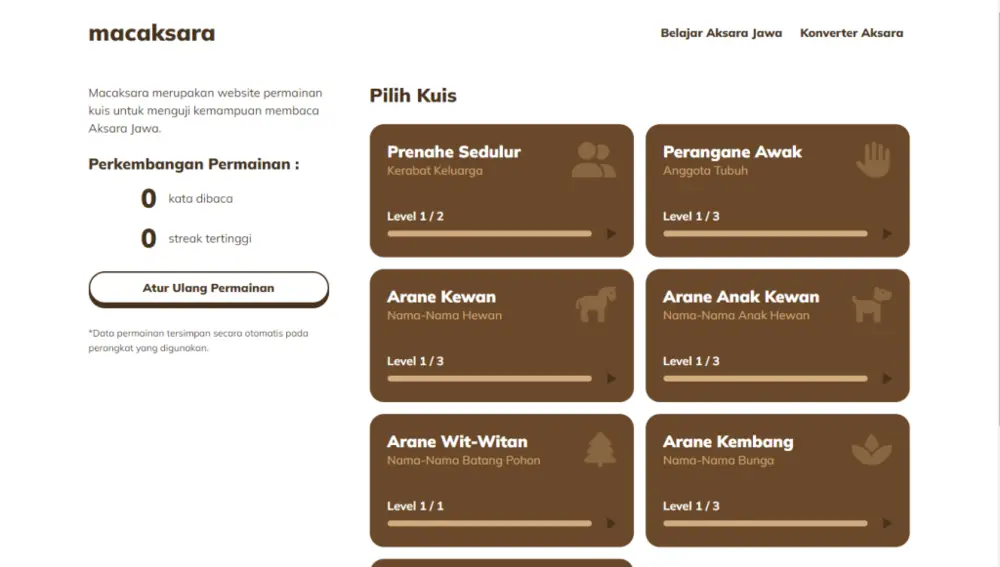
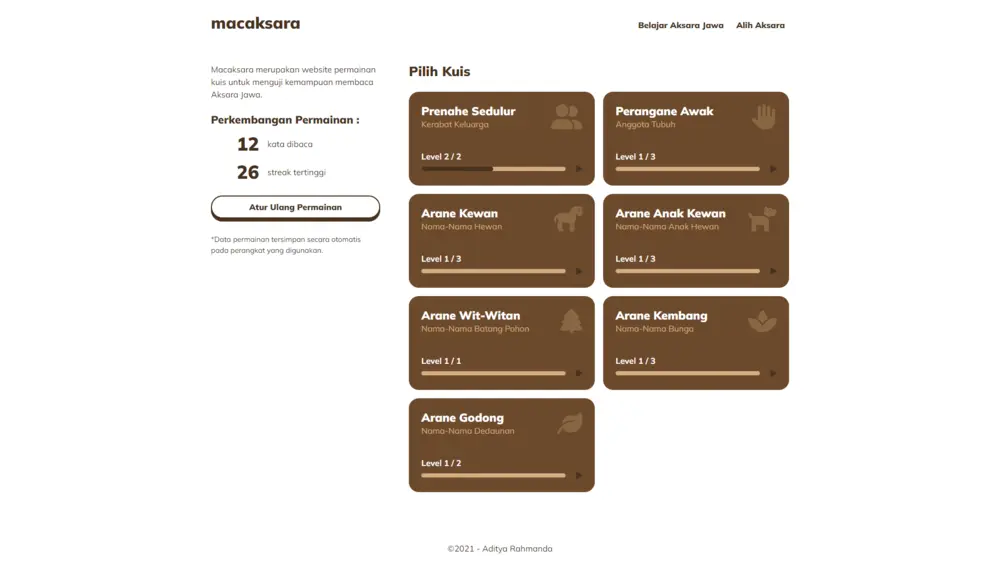
post abimana and alih aksara

diff --git a/_layouts/kerjaan.html b/_layouts/kerjaan.html
@@ -59,18 +59,14 @@ layout: base
 
                     {%- if page.thumbnail -%}
                     <p>
-                        <img class="full-width-image" src="{{ page.thumbnail | prepend: site.baseurl | prepend: site.url }}" alt="Keluku" />
+                        <img class="full-width-image" src="{{ page.thumbnail | prepend: site.baseurl | prepend: site.url }}" alt="Thumbnail" />
                     </p>
                     {%- endif -%}
 
                     {%- if page.excerpt -%}
-                        <div class="entry-content">
-                            {{ content | remove_first:page.excerpt }}
-                        </div>
+                        {{ content | remove_first:page.excerpt }}
                     {%- else -%}
-                        <div class="entry-content">
-                            {{ content }}
-                        </div>
+                        {{ content }}
                     {%- endif -%}
 
                 </article><!-- #post-## -->

diff --git a/_sass/theme/_entries.scss b/_sass/theme/_entries.scss
@@ -94,8 +94,6 @@
 #wrapper-single-work, #wrapper-featured-work, #wrapper-archive-work {
     .hentry {
         .entry-tags, .entry-dev-tools {
-            text-align: right;
-
             ul {
                 @include list-unstyled;
                 margin-bottom: 0;
@@ -116,6 +114,14 @@
     .hentry {
         .entry-tags, .entry-dev-tools {
             text-align: right;
+        }
+    }
+}
+
+#wrapper-single-work {
+    .hentry {
+        .entry-tags, .entry-dev-tools {
+            text-align: left;
         }
     }
 }

diff --git a/_posts/2023-08-05-javanese-textmeshpro.md b/_posts/2023-08-05-javanese-textmeshpro.md
@@ -1,5 +1,5 @@
 ---
-layout: post
+layout: kerjaan
 title: "Javanese TextMeshPro – Dukungan Aksara Jawa untuk TextMeshPro"
 date: 2023-08-05 01:09
 categories: kerjaan
@@ -17,33 +17,33 @@ Perkakas tambahan untuk memenuhi kebutuhan penulisan teks aksara Jawa di dalam U
 
 <!--excerpt-->
 
-# Fitur-Fitur
-### Javanese Text
+#### Fitur-Fitur
+##### Javanese Text
 Elemen teks yang digunakan untuk menampilkan teks aksara Jawa.
 
 ![Preview Javanese Text]({{"/assets/images/javanese-text-example.webp", | relative_url }})
 
-### Javanese Button
+##### Javanese Button
 Elemen UI berupa tombol yang berisikan elemen teks `Javanese Text (UI)` di dalamnya.
 
 ![Preview Javanese Button]({{"/assets/images/javanese-button-example.webp", | relative_url }})
 
-### Javanese Input Field
+##### Javanese Input Field
 Elemen UI berupa *input field* yang mampu menerima masukan teks aksara Jawa.
 
 ![Preview Javanese Input Field]({{"/assets/gif/javanese-input-example.gif", | relative_url }})
 
-### Javanese Dropdown
+##### Javanese Dropdown
 Elemen UI berupa *dropdown* yang mampu menyajikan daftar pilihan beraksara Jawa.
 
 ![Preview Javanese Dropdown]({{"/assets/gif/javanese-dropdown-example.gif", | relative_url }})
 
-### Jendela Transliterator
+##### Jendela Transliterator
 Jendela untuk melakukan transliterasi teks Latin-Jawa atau Jawa-Latin pada editor Unity.
 
 ![Preview Transliterator Window]({{"/assets/gif/javanese-transliterator-example.gif", | relative_url }})
 
-# Prasyarat
+#### Prasyarat
 
 <table>
   <thead>
@@ -64,14 +64,14 @@ Jendela untuk melakukan transliterasi teks Latin-Jawa atau Jawa-Latin pada edito
   </tbody>
 </table>
 
-# Batasan
+#### Batasan
 [TextMeshPro](https://docs.unity3d.com/Packages/com.unity.textmeshpro@3.0/manual/index.html) tidak membaca peletakan dan penggantian *glyph* (GPOS dan GSUB)[🡕](https://forum.unity.com/threads/needs-unicode-support.483802/#post-3148337) dari *font* aksara Jawa sehingga tidak mampu menampilkan teks aksara Jawa dengan benar.
 
 Plugin Javanese TextMeshPro mengatasi permasalahan tersebut dengan memproses *font* aksara Jawa khusus yang memiliki tambahan *glyph* pada blok Unicode U+E000-U+E09F dan U+E100-U+E11D. Jangkauan blok tersebut sengaja dipilih karena termasuk dalam ranah blok [Private Use Area (PUA)](https://en.wikipedia.org/wiki/Private_Use_Areas#:~:text=In%20Unicode%2C%20a%20Private%20Use,characters%20by%20the%20Unicode%20Consortium.). Sedangkan pengaturan peletakan *glyph* dari *font* khusus yang digunakan oleh plugin ini sendiri, mengikuti peletakan *glyph* dari *font* [Ngayogyan](https://aksaradinusantara.com/fonta/nyk-ngayogyan.font). 
 
 Oleh karena itu, untuk saat ini plugin ini hanya mendukung beberapa *font* terbatas saja yang meliputi *font* [Ngayogyan](https://aksaradinusantara.com/fonta/nyk-ngayogyan.font), [Ngayogyan Jejeg](https://aksaradinusantara.com/fonta/nyk-ngayogyan-jejeg.font) dan [Noto Sans (Custom)](https://github.com/adityarahmanda/javanese-textmeshpro/tree/master/Fonts/noto-sans.ttf). Semua *font* tersebut sudah tersedia di dalam *package* plugin ini.
 
-# Instalasi melalui OpenUPM
+#### Instalasi melalui OpenUPM
 1. Pada project Unity-mu, buka jendela **Project Settings**  melalui menu `Edit / Project Settings / Package Manager` dan tambahkan *scoped registry* sebagaimana berikut.
 
     | Kolom | Keterangan                                |
@@ -86,7 +86,7 @@ Oleh karena itu, untuk saat ini plugin ini hanya mendukung beberapa *font* terba
 
     ![Installation Step 3 - Installing Package]({{"/assets/images/installation-2.webp", | relative_url }})
 
-# Essential dan Example Resources
+#### Essential dan Example Resources
 Untuk dapat menggunakan Javanese TextMeshPro, package `JVTMP Essential Resources` wajib diimpor terlebih dahulu. Jendela impor package `JVTMP Essential Resources` akan muncul secara otomatis setelah instalasi plugin.
 
 Package `JVTMP Examples Resources` juga dapat diimpor secara opsional untuk mempelajari bagaimana contoh penerapan langsung dari plugin ini di dalam game.

diff --git a/_posts/2023-05-16-macaksara.md b/_posts/2023-05-16-macaksara.md
@@ -1,15 +1,15 @@
 ---
-layout: post
+layout: kerjaan
 title: "Macaksara – Website Permainan Kuis Membaca Aksara Jawa"
 date: 2023-05-16 18:53:06 +0700
 categories: kerjaan
 labels: 
-    - "Aplikasi Web" 
+    - "Website" 
 tools: 
     - "Bootstrap" 
     - "Nuxt JS"
 external-links:
-  - { text: Macaksara, icon: globe, url: "https://adityarahmanda.github.io/macaksara" }
+  - { text: Demo, icon: globe, url: "https://adityarahmanda.github.io/macaksara" }
   - { text: Github, is-brand: true, icon: github, url: "https://github.com/adityarahmanda/macaksara" }
 thumbnail : "/assets/images/macaksara-thumbnail.webp"
 canonical_url: 'https://adityarahmanda.github.io/kerjaan/macaksara'
@@ -18,6 +18,6 @@ Sebagai penggemar aksara Jawa, Macaksara merupakan perwujudan dari keinginan pri
 
 <!--excerpt-->
 
-Soal dalam Macaksara dihasilkan dengan membaca data soal mentah beraksara latin. Data soal mentah tersebut ditransliterasikan menjadi aksara Jawa dengan bantuan script transliterator yang telah saya kembangkan sebelumnya lewat proyek **Alih Aksara**.
+Soal dan pilihan jawaban dalam Macaksara dihasilkan dengan bantuan script transliterator yang telah saya kembangkan sebelumnya lewat proyek [Alih Aksara]({{"/kerjaan/alih-aksara", | relative_url }}).
 
 <img class="full-width-image" src="{{ "/assets/images/macaksara-soal.webp" | prepend: site.baseurl | prepend: site.url }}" alt="Soal dalam Macaksara" />

diff --git a/_posts/2023-02-28-alih-aksara.md b/_posts/2023-02-28-alih-aksara.md
@@ -1,0 +1,23 @@
+---
+layout: kerjaan
+title: "Alih Aksara – Website Transliterasi Aksara Jawa"
+date: 2023-04-07 08:44
+categories: kerjaan
+labels: 
+    - "Website"
+    - "Perkakas" 
+tools: 
+    - "Svelte"
+external-links:
+  - { text: Demo, icon: globe, url: "https://adityarahmanda.github.io/alih-aksara" }
+  - { text: Github, is-brand: true, icon: github, url: "https://github.com/adityarahmanda/alih-aksara" }
+thumbnail : "/assets/images/alih-aksara-thumbnail.webp"
+canonical_url: 'https://adityarahmanda.github.io/kerjaan/alih-aksara'
+---
+Alat transliterasi sederhana untuk mengalihkan/mengubah/mengkonversi teks aksara Jawa ke bentuk aksara lain ataupun sebaliknya.
+
+<!--excerpt-->
+
+Bisa dibilang proyek alih aksara ini hanyalah sebuah keisengan. Iseng karena ini memang bukan proyek serius apalagi resmi, sekadar proyek pribadi suka-suka yang saya manfaatkan untuk lebih dalam mempelajari aksara Jawa ataupun ilmu pemrograman web itu sendiri.
+
+Saat ini Alih aksara mendukung alat untuk melakukan tiga jenis transliterasi: Latin-Jawa, Jawa-Latin, dan Jawa-Kawi

diff --git a/_posts/2023-02-28-abimana.md b/_posts/2023-02-28-abimana.md
@@ -1,0 +1,20 @@
+---
+layout: kerjaan
+title: "Abimana – Tema Blogger untuk Personal"
+date: 2023-03-03 07:24
+categories: kerjaan
+labels: 
+    - "Tema Blogger" 
+tools: 
+    - "Svelte"
+external-links:
+  - { text: Demo, icon: globe, url: "https://abimana-blogger-template.blogspot.com" }
+  - { text: Github, is-brand: true, icon: github, url: "https://github.com/adityarahmanda/abimana" }
+thumbnail : "/assets/images/abimana-thumbnail.webp"
+canonical_url: 'https://adityarahmanda.github.io/kerjaan/abimana'
+---
+Dengan tampilan yang bersih dan sederhana, tema Blogger ini tersedia dalam mode terang dan gelap.
+
+<!--excerpt-->
+
+<img class="full-width-image" src="{{ "/assets/images/abimana-dark.webp" | prepend: site.baseurl | prepend: site.url }}" alt="Soal dalam Macaksara" />

diff --git a/_posts/2024-05-12-hopupbunny.md b/_posts/2024-05-12-hopupbunny.md
@@ -1,5 +1,5 @@
 ---
-layout: post
+layout: kerjaan
 title: "Hop Up Bunny – Permainan Pixel-Platformer untuk Android"
 date: 2024-05-12 06:18
 categories: kerjaan

diff --git a/_posts/2023-02-28-find-me-out.md b/_posts/2023-02-28-find-me-out.md
@@ -1,5 +1,5 @@
 ---
-layout: post
+layout: kerjaan
 title: "Find Me Out – Permainan Petak Umpet Online Multiplayer"
 date: 2023-02-28 15:24
 categories: kerjaan
